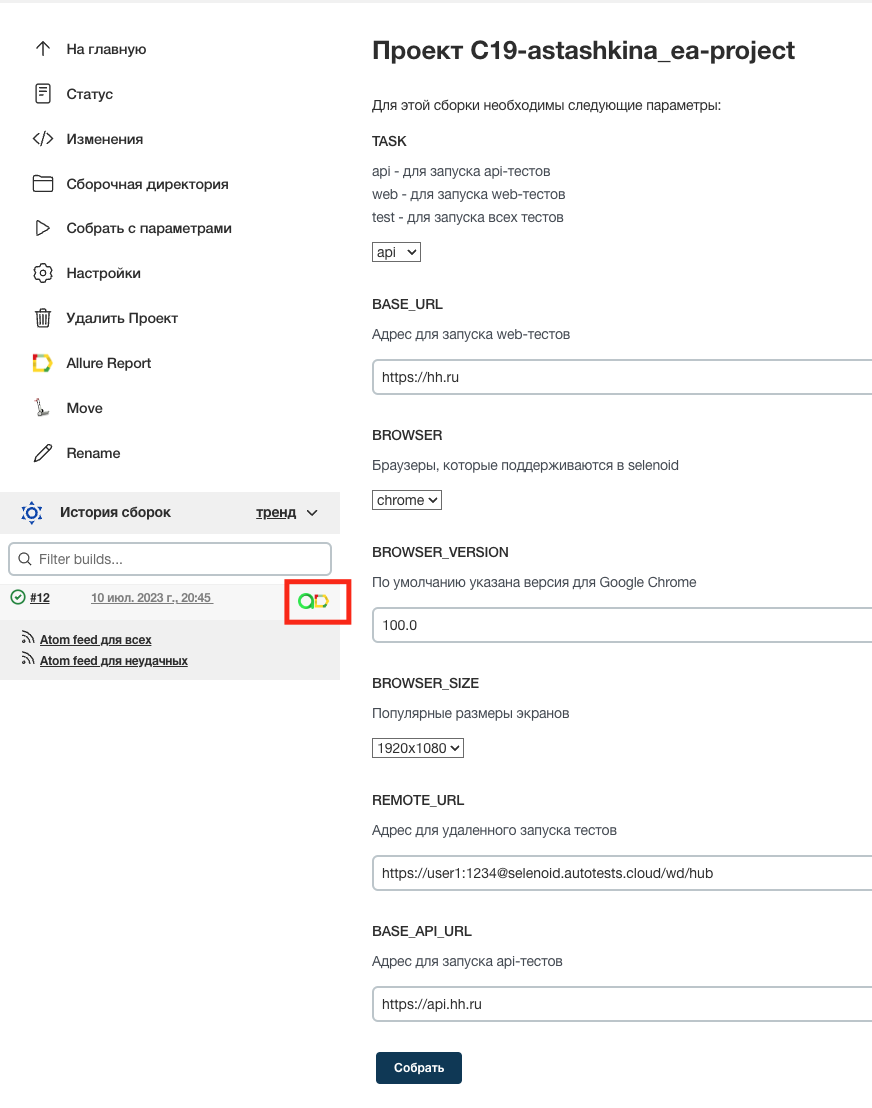
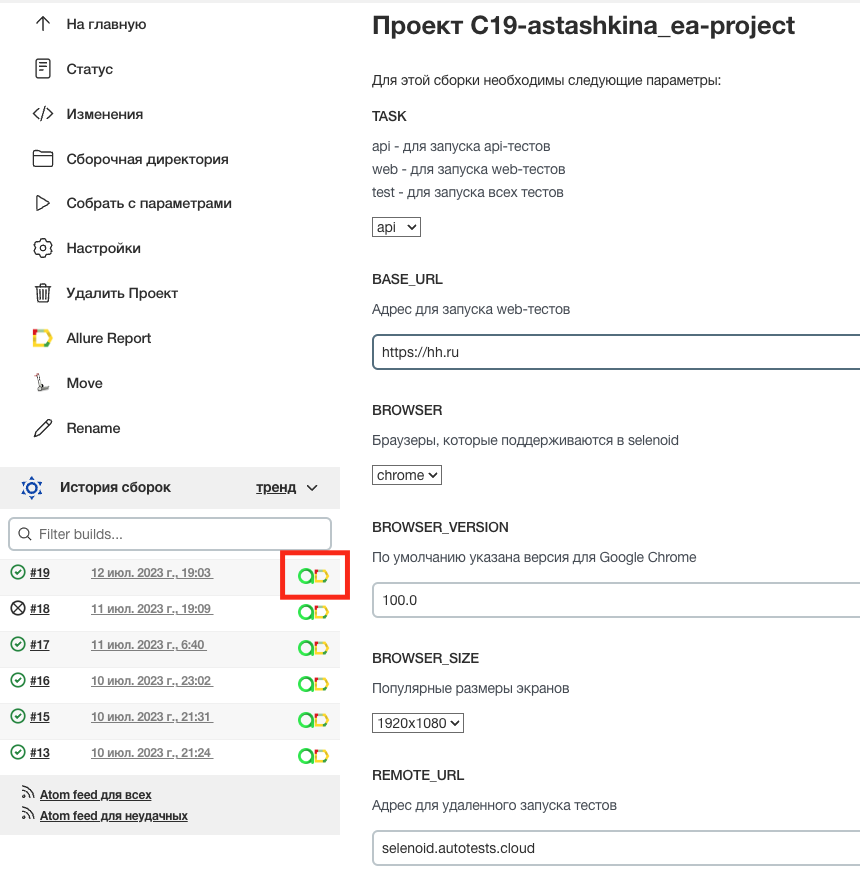
added fix

diff --git a/README.md b/README.md
@@ -83,6 +83,8 @@ web
 -DbrowserVersion=BROWSER_VERSION
 -DbrowserSize=BROWSER_SIZE
 -DremoteUrl=REMOTE_URL
+-DloginRemote=LOGIN_REMOTE
+-DpasswordRemote=PASSWORD_REMOTE
 -DloginAccount=LOGIN_ACCOUNT
 -DpasswordAccount=PASSWORD_ACCOUNT
 ```
@@ -93,6 +95,8 @@ web
 >- <code>BROWSER_VERSION</code> - версия браузера (по умолчанию 100.0)
 >- <code>BROWSER_SIZE</code> - размер окна браузера (по умолчанию 1920x1080)
 >- <code>REMOTE_URL</code> - адрес для удаленного запуска тестов
+>- <code>LOGIN_REMOTE</code> - логин для удаленного запуска тестов
+>- <code>PASSWORD_REMOTE</code> - пароль для удаленного запуска тестов
 >- <code>LOGIN_ACCOUNT</code> - логин тестового аккаунта (по умолчанию в credentials.properties)
 >- <code>PASSWORD_ACCOUNT</code> - пароль тествого аккаунта (по умолчанию в credentials.properties)
 
